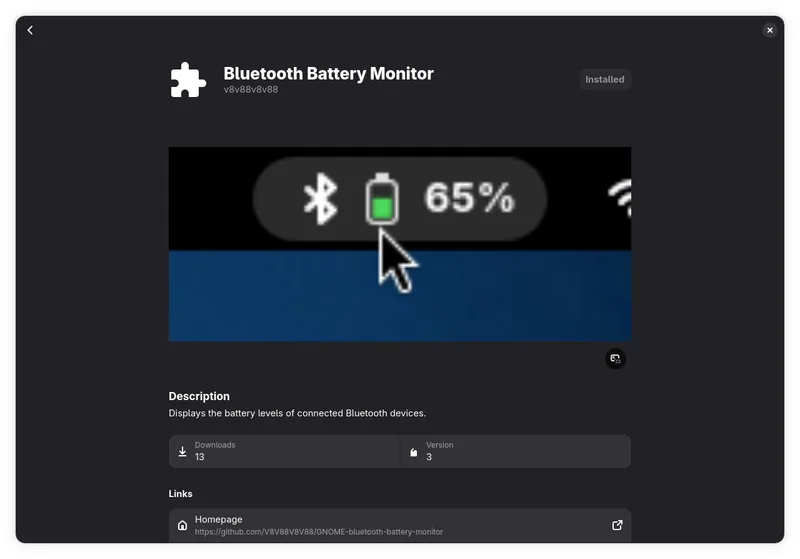
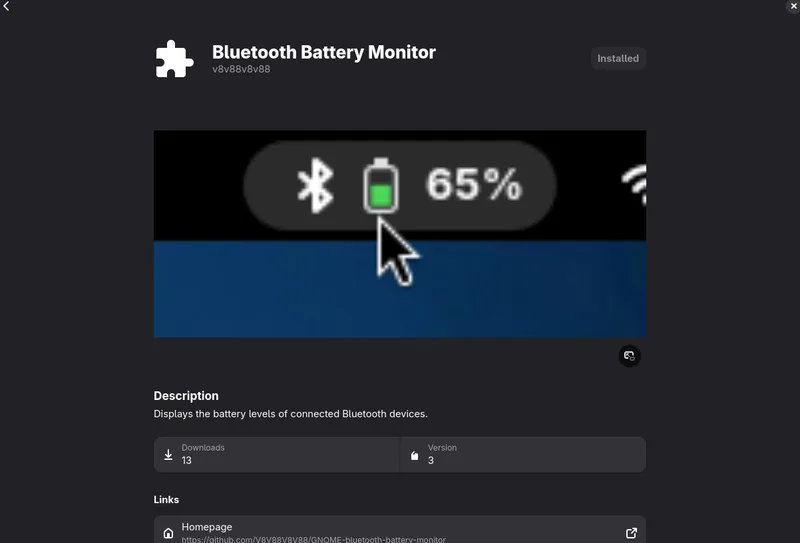
feat: page transitions, centered hero, project row arrows, guestbook label, trimmed covers, softer bottom blur

diff --git a/src/styles/global.css b/src/styles/global.css
@@ -83,6 +83,25 @@ html {
     scroll-padding-top: 72px;
 }
 
+/* Page-to-page navigation cross-fades instead of cutting (cross-document
+   view transitions: CSS only, and browsers without them just navigate as
+   before). The navbar is its own group so it stays put while the page under
+   it changes. Skipped for people who ask for less motion. */
+@media (prefers-reduced-motion: no-preference) {
+    @view-transition {
+        navigation: auto;
+    }
+
+    header {
+        view-transition-name: site-header;
+    }
+
+    ::view-transition-old(root),
+    ::view-transition-new(root) {
+        animation-duration: 0.22s;
+    }
+}
+
 /* Page lock while a modal is open (set from the guestbook script). */
 html.scroll-locked {
     overflow: hidden;
@@ -172,6 +191,14 @@ html.light-mode body::before {
         --fade-midpoint: 0.7;
         --edge-blur: 26px;
     }
+}
+
+/* The bottom fade is thinner and softer than the top one: cards scroll up
+   through it, and a strong blur there read as a rendering glitch. */
+.bottom-edge-blur {
+    height: 3vh;
+    height: 3dvh;
+    --edge-blur: 10px;
 }
 
 @media print {
@@ -1350,6 +1377,11 @@ html.light-mode .projects {
 
 .projects ul::-webkit-scrollbar {
     display: none;
+}
+
+.projects ul.at-end {
+    mask-image: none;
+    -webkit-mask-image: none;
 }
 
 @media (prefers-reduced-motion: no-preference) {
@@ -2918,6 +2950,22 @@ html.light-mode main>section.intro {
     min-width: 0;
     max-width: 6rem;
     opacity: 1;
+}
+
+/* A bare pen reads as "edit", so on larger screens the label is always
+   there; phones keep the compact round button. */
+@media (min-width: 769px) {
+    .guestbook-btn {
+        width: auto;
+        padding: 0.6rem 1rem;
+        gap: 0.5rem;
+    }
+
+    .guestbook-btn .guestbook-btn-label {
+        width: auto;
+        max-width: 6rem;
+        opacity: 1;
+    }
 }
 
 html.light-mode .guestbook-btn {
